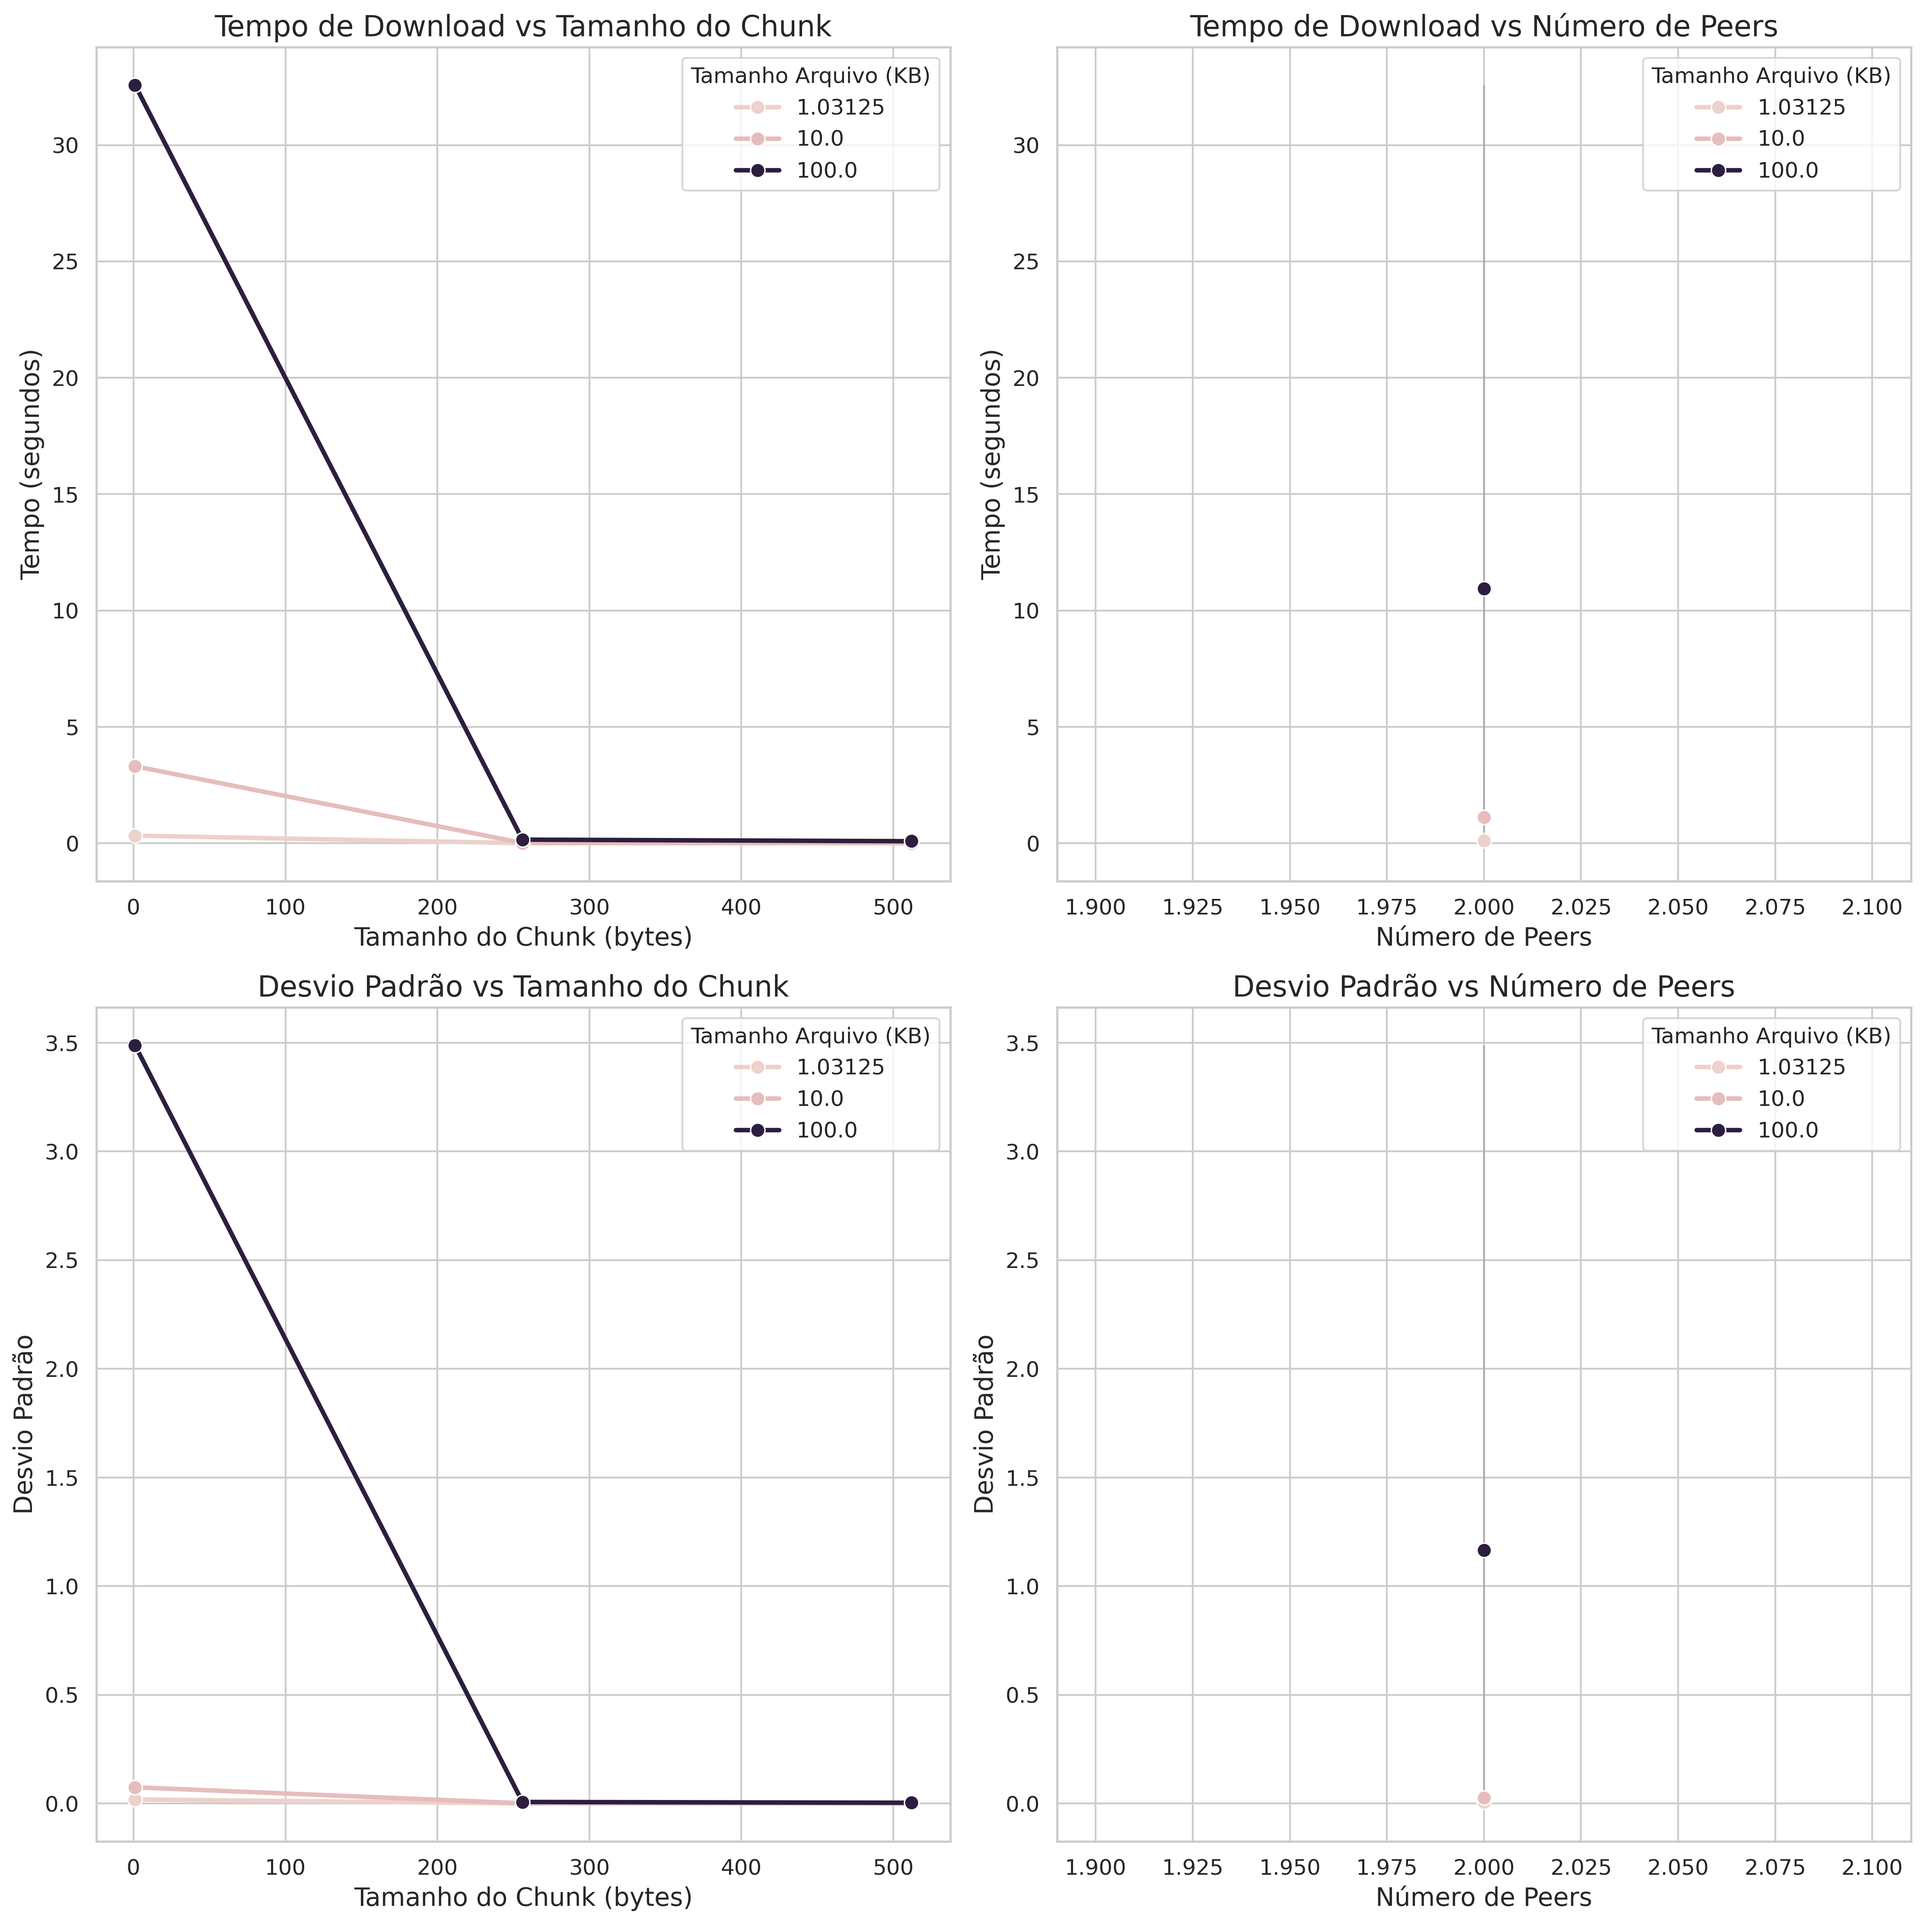
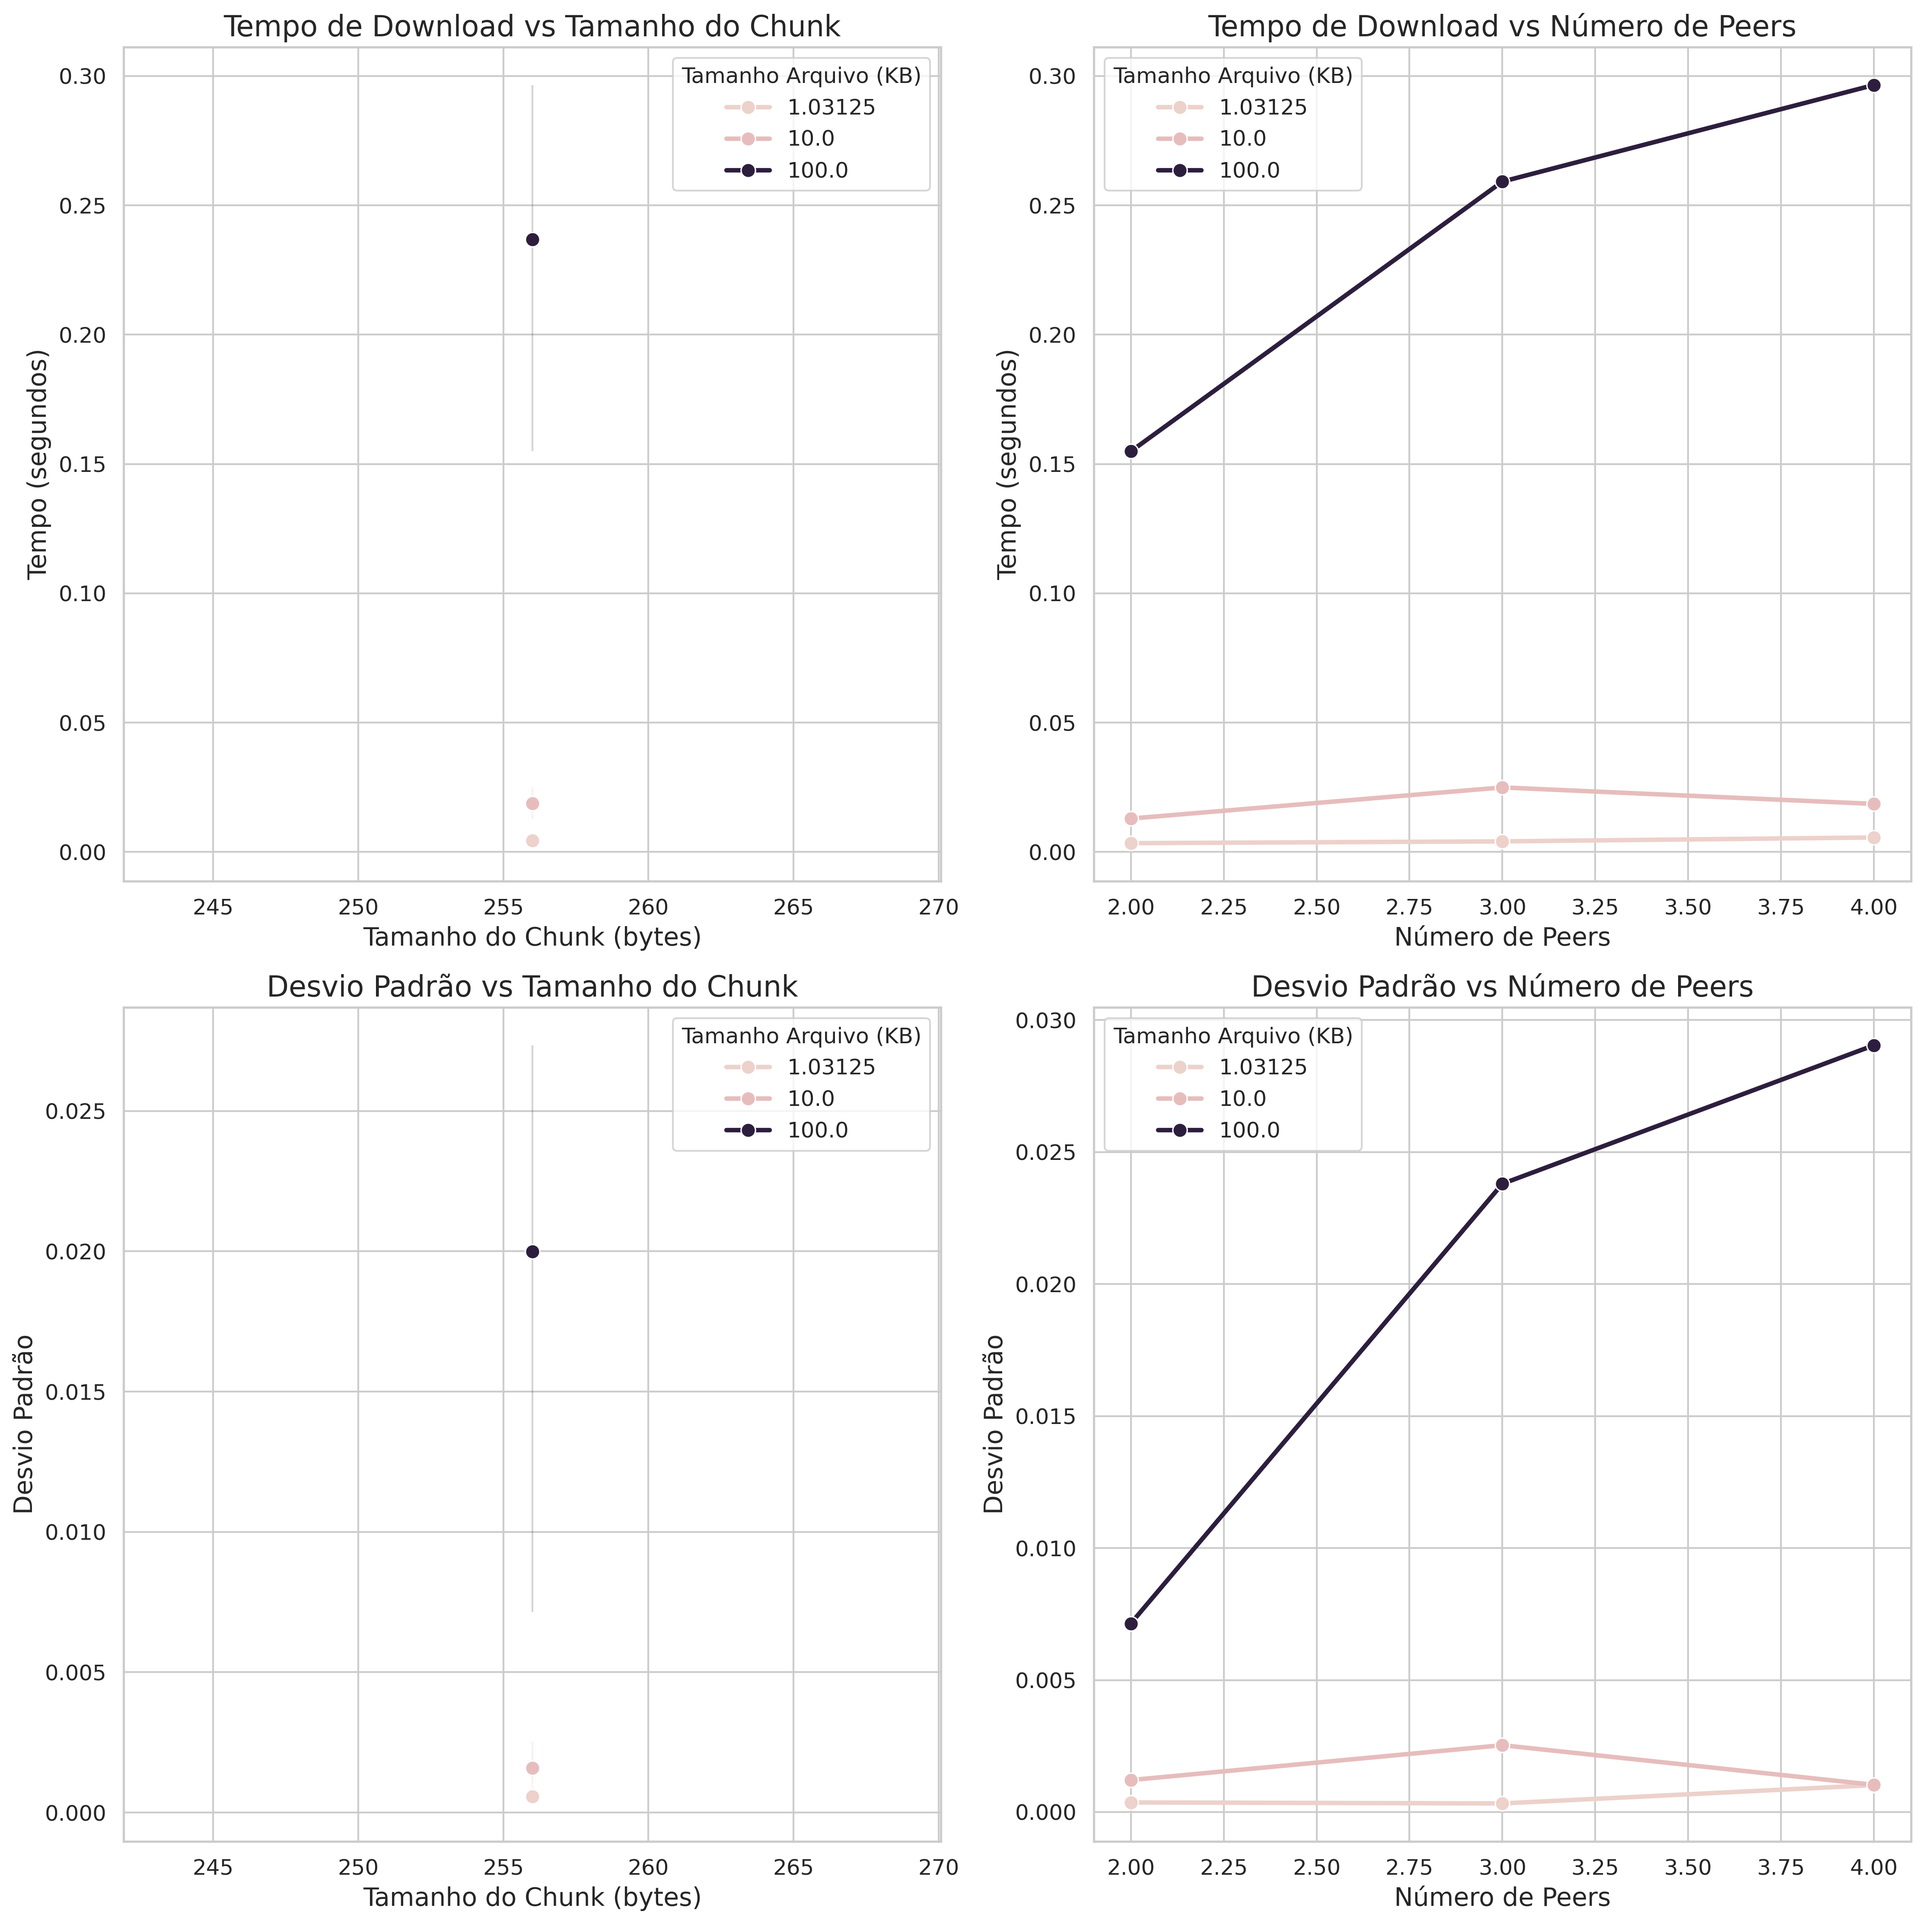
Finalizando

diff --git a/analyze_performance.py b/analyze_performance.py
@@ -2,7 +2,6 @@ import pandas as pd
 import matplotlib.pyplot as plt
 import seaborn as sns
 import numpy as np
-from scipy import stats
 import os
 import warnings
 import glob
@@ -11,7 +10,7 @@ from collections import defaultdict
 def load_data():
     """Load and process statistics data"""
     stats = []
-    for file in glob.glob("csv/estatistica*.csv"):
+    for file in glob.glob("csv_peers/estatistica*.csv"):
         df = pd.read_csv(file)
         stats.append(df)
     
@@ -104,7 +103,61 @@ def analyze_chunk_performance():
     plt.savefig('plots/download_time_analysis.png')
     plt.close()
 
+def analyze_peer_impact():
+    """Analyze impact of number of peers on performance"""
+    df = load_data()
+    
+    # Create plots directory
+    os.makedirs("plots_peers", exist_ok=True)
+    
+    # Set style
+    sns.set_theme(style="whitegrid", font_scale=1.2)
+
+    # 1. Download time vs number of peers
+    plt.figure(figsize=(12, 8))
+    sns.lineplot(data=df, x='num_peers', y='tempo', hue='tamanho_arquivo', marker='o')
+    plt.title('Tempo de Download vs Número de Peers')
+    plt.xlabel('Número de Peers')
+    plt.ylabel('Tempo de Download (s)')
+    plt.legend(title='Tamanho do Arquivo')
+    plt.savefig('plots/tempo_vs_peers.png')
+    plt.close()
+
+    # 2. Boxplot para mostrar distribuição
+    plt.figure(figsize=(12, 8))
+    sns.boxplot(data=df, x='num_peers', y='tempo', hue='tamanho_arquivo')
+    plt.title('Distribuição do Tempo de Download por Número de Peers')
+    plt.xlabel('Número de Peers')
+    plt.ylabel('Tempo de Download (s)')
+    plt.legend(title='Tamanho do Arquivo')
+    plt.savefig('plots/boxplot_tempo_vs_peers.png')
+    plt.close()
+
+    # 3. Estatística descritiva
+    print("\nEstatística descritiva por número de peers:")
+    print(df.groupby(['num_peers', 'tamanho_arquivo'])['tempo'].describe())
+
 if __name__ == "__main__":
     with warnings.catch_warnings():
         warnings.simplefilter("ignore", category=RuntimeWarning)
         analyze_chunk_performance()
+        analyze_peer_impact()
+
+# Carregar o CSV
+df = pd.read_csv("estatistica.csv")
+
+# Se quiser filtrar por um tamanho de chunk específico (ex: 256)
+df_filtrado = df[df['tamanho_chunk'] == 256]
+
+plt.figure(figsize=(8,5))
+sns.lineplot(data=df_filtrado, x='num_peers', y='tempo', marker='o')
+plt.title('Tempo de Download vs Número de Peers (Chunk=256)')
+plt.xlabel('Número de Peers')
+plt.ylabel('Tempo de Download (s)')
+plt.grid(True)
+plt.tight_layout()
+plt.savefig('tempo_vs_peers.png')
+plt.show()
+
+agrupado = df_filtrado.groupby('num_peers')['tempo'].agg(['mean', 'std', 'count'])
+print(agrupado)

diff --git a/plot_graph.py b/plot_graph.py
@@ -20,7 +20,7 @@ def setup_plot_style():
 def load_and_process_data():
     """Load and process statistics data"""
     stats = []
-    for file in glob.glob("csv/estatistica*.csv"):
+    for file in glob.glob("csv_peers/estatistica*.csv"):
         try:
             df = pd.read_csv(file)
             stats.append(df)
